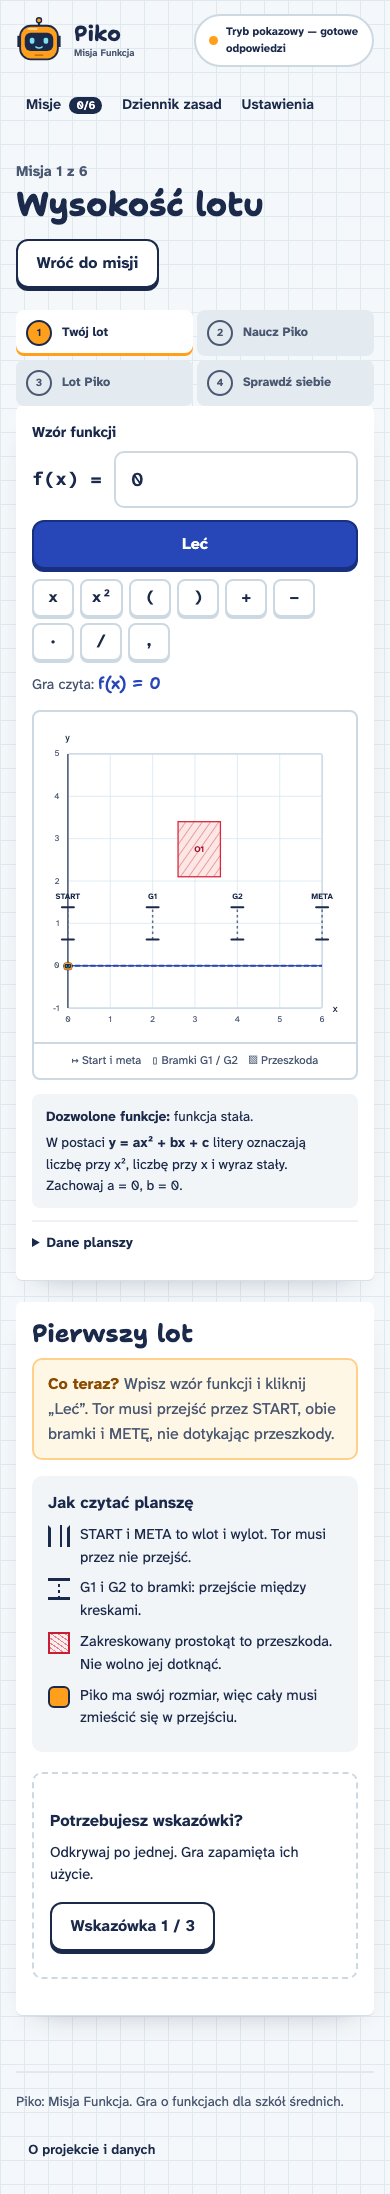
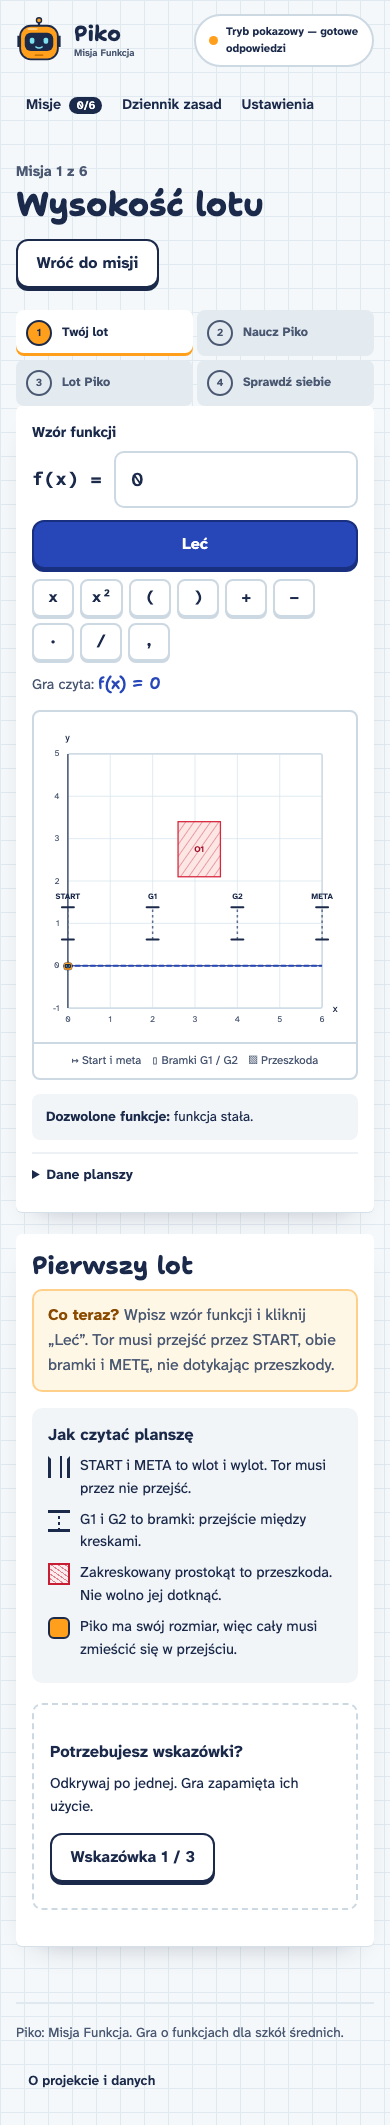
Make the lesson step simpler for a first-time player
- Piko's wrong idea flies automatically when the lesson starts
- the game computes gate values; no manual G1/G2 predictions
- predicting Piko's flight is optional
- plain constraint text ('Ustalone: liczba przy x² = 0,25')
- three-item checklist and updated guidance, tests and guide

diff --git a/apps/web/src/App.tsx b/apps/web/src/App.tsx
@@ -12,7 +12,7 @@ import {backupSave,canAskRobot,hasCompleted,loadState,numericEvidence,persistSta
 const formulaKeys:[string,string][]=[['x','x'],['x²','x^2'],['(','('],[')',')'],['+','+'],['−','-'],['·','*'],['/','/'],[',',',']];
 const modeText={demo:'Tryb pokazowy — gotowe odpowiedzi',live:'Prawdziwe AI — Claude',unavailable:'AI niedostępne — brak odpowiedzi'};
 const familyName={constant:'funkcja stała',linear:'funkcja liniowa',quadratic:'funkcja kwadratowa'};
-const coefficientName={c2:'a',c1:'b',c0:'c'};
+const coefficientWords={c2:'liczba przy x²',c1:'liczba przy x',c0:'liczba bez x'};
 const pointName=(id:string)=>id==='start'?'Start':id==='goal'?'Meta':id;
 function eventLabel(event:Event){
  if(event.code==='OUT_OF_BOUNDS')return 'wyjście poza granice planszy';
@@ -25,7 +25,7 @@ function FlightResult({attempt,robotStart}:{attempt:Attempt;robotStart?:{yMin:nu
  const {expression,result}=attempt;
  const missedStart=result.primaryCode==='START_MISS'?result.checkpoints.find(point=>point.id==='start'):undefined;
  return <section className={result.ok?'success':'error'} data-testid="engine-result" aria-label="Wynik lotu">
-  <h3>Wynik lotu</h3>
+  <h3>{attempt.source==='demo'&&attempt.sceneId.endsWith('-teach')?'Lot według pomysłu Piko':'Wynik lotu'}</h3>
   <p>Wzór <code>f(x) = {expression}</code></p>
   <strong>{result.ok?'✓':'×'} {result.messagePL}</strong>
   {result.firstPhysicalEvent&&<p>Co poszło nie tak: {eventLabel(result.firstPhysicalEvent)}, x ≈ {result.firstPhysicalEvent.x.toFixed(3)}.</p>}
@@ -195,19 +195,15 @@ export function App(){
  </>}
  {s.page==='game'&&<><div className="mission-heading"><div><p className="mission-number">Misja {m.order} z 6</p><h1 ref={heading} tabIndex={-1}>{m.title}</h1></div><button className="secondary" onClick={()=>go('missions')}>Wróć do misji</button></div><ol className="phase-list">{roles.map((step,i)=><li key={step} aria-current={role===step?'step':undefined} className={role===step?'active':roles.indexOf(role)>i?'done':''}><span>{roles.indexOf(role)>i?'✓':i+1}</span>{roleLabels[step]}</li>)}</ol>
  <div className="game-grid"><section className="flight sheet" aria-label={roleLabels[role]}>
- {role!=='robot_transfer'&&<form className="expression-form" onSubmit={e=>{e.preventDefault();dispatch({type:'CHECK'});}}>{role==='teach'&&<h3>1. Popraw wzór Piko i przewidź wysokość</h3>}<label htmlFor="expression">{role==='teach'?'Twój poprawiony wzór':'Wzór funkcji'}</label><div className="expression-row"><span>f(x) =</span><input ref={exprRef} id="expression" data-testid="expression" value={r.drafts[role]} maxLength={120} autoComplete="off" spellCheck={false} onChange={e=>dispatch({type:'EDIT',field:'expression',value:e.target.value})}/><button disabled={s.busy}>{role==='human_check'?'Sprawdź mój lot':role==='teach'?'Sprawdź naprawę':'Leć'}</button></div><div className="formula-keys" role="group" aria-label="Wstaw do wzoru">{formulaKeys.map(([label,text])=><button type="button" key={label} className="key" aria-label={`Wstaw ${label}`} onClick={()=>insertIntoFormula(text)}>{label}</button>)}</div>
+ {role!=='robot_transfer'&&<form className="expression-form" onSubmit={e=>{e.preventDefault();dispatch({type:'CHECK'});}}>{role==='teach'&&<h3>1. Popraw wzór Piko</h3>}<label htmlFor="expression">{role==='teach'?'Twój poprawiony wzór':'Wzór funkcji'}</label><div className="expression-row"><span>f(x) =</span><input ref={exprRef} id="expression" data-testid="expression" value={r.drafts[role]} maxLength={120} autoComplete="off" spellCheck={false} onChange={e=>dispatch({type:'EDIT',field:'expression',value:e.target.value})}/><button disabled={s.busy}>{role==='human_check'?'Sprawdź mój lot':role==='teach'?'Sprawdź naprawę':'Leć'}</button></div><div className="formula-keys" role="group" aria-label="Wstaw do wzoru">{formulaKeys.map(([label,text])=><button type="button" key={label} className="key" aria-label={`Wstaw ${label}`} onClick={()=>insertIntoFormula(text)}>{label}</button>)}</div>
  {r.drafts[role].trim()&&<p className="formula-preview">Gra czyta: <span>f(x) = {prettyFormula(r.drafts[role])}</span></p>}
- {role==='teach'&&<div className="predictions">{scene.gates.map((g,i)=><label key={g.id} htmlFor={`prediction${i}`}>{g.id} (x = {g.x}): przewiduję y =<input id={`prediction${i}`} inputMode="decimal" value={r.predictions[i]} onChange={e=>dispatch({type:'EDIT',field:i===0?'prediction0':'prediction1',value:e.target.value})}/></label>)}</div>}
  {role==='teach'&&r.repairChecked&&<p className={canRule||deriveRuleEvidence(m,r.drafts.teach,numericEvidence(s))?'notice ok':'notice'}>{r.numericFeedback}</p>}
  </form>}
  <Board scene={scene} expression={role==='robot_transfer'?(r.robotChecked?r.robot?.learner?.proposedExpression??'':''):r.drafts[role]} showPath={!blind&&(role!=='robot_transfer'||r.robotChecked)} result={role==='robot_transfer'?r.robotChecked?r.attempts.robot_transfer?.at(-1)?.result??null:null:currentResult} flightId={last?.id} reduced={reduced} hitbox={s.settings.hitbox}/>
  <div className="constraints">
   <strong>Dozwolone funkcje:</strong> {scene.allowedFamilies.map(f=>familyName[f]).join(', ')}.
-  {Object.keys(scene.coefficientLocks).length>0&&<p>
-   W postaci <strong>y = ax² + bx + c</strong> litery oznaczają liczbę przy x², liczbę przy x i wyraz stały.
-   Zachowaj {Object.entries(scene.coefficientLocks).map(([key,value])=>`${coefficientName[key as keyof typeof coefficientName]} = ${value}`).join(', ')}.
-  </p>}
-  {scene.vertexLock&&<p>Współrzędne wierzchołka: {Object.entries(scene.vertexLock).map(([k,v])=>`${k} = ${v}`).join(', ')}.</p>}
+  {Object.entries(scene.coefficientLocks).filter(([,value])=>value!==0).map(([key,value])=><p key={key}>Ustalone: {coefficientWords[key as keyof typeof coefficientWords]} = {String(value).replace('.',',')}.</p>)}
+  {scene.vertexLock&&<p>Ustalone: wierzchołek {Object.entries(scene.vertexLock).map(([k,v])=>`${k} = ${String(v).replace('.',',')}`).join(', ')}.</p>}
  </div>
  <div aria-live="polite" className="feedback">{s.error&&<p className="error" role="alert">! {s.error}</p>}{last&&!blind&&(role!=='robot_transfer'||r.robotChecked)&&<FlightResult attempt={last} robotStart={role==='robot_transfer'?scene.start:undefined}/>}{blind&&<p className="notice">Nowa plansza, teraz bez podpowiedzi. Tor zobaczysz po zatwierdzeniu wzoru. Błąd składni nie zużywa pierwszej próby.</p>}</div>
  <details className="board-data"><summary>Dane planszy</summary><p>Granice: x od {scene.domain.xMin} do {scene.domain.xMax}; y od {scene.domain.yMin} do {scene.domain.yMax}. Bok Piko: 0,24. Cały robot musi mieścić się w przejściu.</p><ul>{[{id:'Start',...scene.start},...scene.gates,{id:'Cel',...scene.goal}].map(g=><li key={g.id}>{g.id}: x={g.x}, dozwolone y od {g.yMin} do {g.yMax}</li>)}{scene.obstacles.map(o=><li key={o.id}>Przeszkoda {o.id}: x od {o.xMin} do {o.xMax}; y od {o.yMin} do {o.yMax}</li>)}</ul></details>
@@ -221,7 +217,7 @@ export function App(){
   <li><b className="lg-piko" aria-hidden="true"/>Piko ma swój rozmiar, więc cały musi zmieścić się w przejściu.</li>
  </ul></div>}
  {role==='practice'&&<><div className="hint-box"><h3>Potrzebujesz wskazówki?</h3><p>Odkrywaj po jednej. Gra zapamięta ich użycie.</p>{hints.missions.find(h=>h.missionId===m.id)?.hints.slice(0,r.hintCount).map(h=><div key={h.level}><strong>{h.level}. {h.titlePL}</strong><p>{h.textPL}</p></div>)}{r.hintCount<3&&<button className="secondary" onClick={()=>dispatch({type:'HINT'})}>Wskazówka {r.hintCount+1} / 3</button>}</div>{last?.result.ok&&<button onClick={()=>dispatch({type:'NEXT'})}>Teraz naucz Piko</button>}</>}
- {role==='teach'&&<><div className="piko-says"><Piko/><div className="bubble"><small>Pomysł Piko (przygotowany)</small><p>{m.scriptedRobotUtterance}</p><code>f(x) = {scene.initialExpression}</code><button className="secondary" onClick={()=>dispatch({type:'CHECK_SCRIPT'})}>Sprawdź pomysł Piko</button></div></div><h3>2. Wyjaśnij Piko zasadę</h3><label htmlFor="explanation">Co Piko powinien zmienić i dlaczego?</label><textarea id="explanation" value={r.explanation} maxLength={600} rows={3} onChange={e=>dispatch({type:'EDIT',field:'explanation',value:e.target.value})}/><p className="muted">Wystarczy jedno lub dwa zdania. {r.explanation.length}/600</p>{s.mode==='live'&&<p className="privacy">Twoje wyjaśnienie trafi do AI. Nie wpisuj danych osobowych.</p>}<button className="secondary" disabled={s.busy||!r.explanation.trim()} onClick={()=>void askPiko()}>Powiedz Piko</button>{conversation}{!s.busy&&r.lessonReply?.assessment&&r.lessonReply.assessment!=='sound'&&<p className="notice">Uzupełnij wyjaśnienie w polu powyżej, odpowiadając na pytanie Piko, i kliknij „Powiedz Piko” jeszcze raz.</p>}{!r.explanation.trim()&&<p className="muted">Najpierw wpisz własną próbę wyjaśnienia.</p>}{canRule&&<div className="rule-card note-card">
+ {role==='teach'&&<><div className="piko-says"><Piko/><div className="bubble"><small>Pomysł Piko (przygotowany)</small><p>{m.scriptedRobotUtterance}</p><code>f(x) = {scene.initialExpression}</code><p className="bubble-note">Na planszy widać, jak skończył się ten lot.</p></div></div><h3>2. Wyjaśnij Piko zasadę</h3><label htmlFor="explanation">Co Piko powinien zmienić i dlaczego?</label><textarea id="explanation" value={r.explanation} maxLength={600} rows={3} onChange={e=>dispatch({type:'EDIT',field:'explanation',value:e.target.value})}/><p className="muted">Wystarczy jedno lub dwa zdania. {r.explanation.length}/600</p>{s.mode==='live'&&<p className="privacy">Twoje wyjaśnienie trafi do AI. Nie wpisuj danych osobowych.</p>}<button className="secondary" disabled={s.busy||!r.explanation.trim()} onClick={()=>void askPiko()}>Powiedz Piko</button>{conversation}{!s.busy&&r.lessonReply?.assessment&&r.lessonReply.assessment!=='sound'&&<p className="notice">Uzupełnij wyjaśnienie w polu powyżej, odpowiadając na pytanie Piko, i kliknij „Powiedz Piko” jeszcze raz.</p>}{!r.explanation.trim()&&<p className="muted">Najpierw wpisz własną próbę wyjaśnienia.</p>}{canRule&&<div className="rule-card note-card">
   <h3>3. Zapisz notatkę dla Piko</h3>
   <dl className="lesson-text"><dt>Twoje wyjaśnienie</dt><dd>{r.explanation}</dd></dl>
   <PikoBelief belief={r.lessonReply?.belief??null}/>
@@ -248,9 +244,8 @@ export function App(){
   <h3>Propozycja Piko</h3>
   <code>f(x) = {r.robot.learner.proposedExpression}</code>
   {r.robot.learner.utterancePL&&<blockquote className="piko-reason"><small>{r.robot.mode==='live'?'Uzasadnienie Piko (prawdziwe AI)':'Uzasadnienie Piko (tryb pokazowy)'}</small><p>{r.robot.learner.utterancePL}</p></blockquote>}
-  <fieldset><legend>Jak przewidujesz?</legend>{['Przeleci','Nie przeleci','Jeszcze nie wiem'].map(p=><label key={p}><input type="radio" name="prediction" checked={r.prediction===p} onChange={()=>dispatch({type:'ROBOT_PREDICTION',value:p})}/>{p}</label>)}</fieldset>
-  {!r.robotChecked&&<button disabled={s.busy||!r.prediction} onClick={()=>dispatch({type:'ROBOT_CHECK'})}>Sprawdź lot Piko</button>}
-  {!r.prediction&&<p className="muted">Wybierz przewidywanie, by zobaczyć wynik.</p>}
+  <fieldset><legend>Jak myślisz, przeleci? (możesz pominąć)</legend>{['Przeleci','Nie przeleci','Jeszcze nie wiem'].map(p=><label key={p}><input type="radio" name="prediction" checked={r.prediction===p} onChange={()=>dispatch({type:'ROBOT_PREDICTION',value:p})}/>{p}</label>)}</fieldset>
+  {!r.robotChecked&&<button disabled={s.busy} onClick={()=>dispatch({type:'ROBOT_CHECK'})}>Sprawdź lot Piko</button>}
  </div>}
  {s.mode!=='unavailable'&&canAskRobot(s,r)&&(!r.robot||r.robotTurns===0)&&<button disabled={s.busy} onClick={()=>void askPiko()}>Piko, spróbuj sam</button>}
  {!s.busy&&r.robotChecked&&(r.attempts.robot_transfer?.at(-1)?.result.ok

diff --git a/apps/web/src/guidance.ts b/apps/web/src/guidance.ts
@@ -13,16 +13,14 @@ export function nextStep(s:GameState,r:Run):string{
     :'Lot się nie udał. Zobacz na planszy, gdzie tor wypadł, i popraw wzór.';
    return 'Udało się! Kliknij „Teraz naucz Piko”.';
   case 'teach':{
-   const sawIdea=(r.attempts.teach??[]).some(a=>a.source==='demo');
    const evidence=r.repairChecked&&deriveRuleEvidence(m,r.drafts.teach,numericEvidence(s));
    const repair=(r.attempts.teach??[]).filter(a=>a.source==='human').at(-1);
-   if(!sawIdea&&!r.repairChecked)return 'Piko ma błędny pomysł. Kliknij „Sprawdź pomysł Piko”, żeby zobaczyć, dlaczego nie działa.';
-   if(!r.repairChecked)return 'Popraw wzór Piko, wpisz, jaką wysokość przewidujesz w G1 i G2, i kliknij „Sprawdź naprawę”.';
+   if(!r.repairChecked)return 'Piko poleciał według swojego pomysłu i się rozbił (widać na planszy). Popraw jego wzór i kliknij „Sprawdź naprawę”.';
    if(repair&&!repair.result.ok)return 'Poprawiony wzór jeszcze nie prowadzi bezpiecznie. Popraw go i sprawdź ponownie.';
-   if(!evidence)return 'Tor jest dobry, ale prognoza się nie zgadza. Podstaw x bramki do wzoru i policz y jeszcze raz.';
+   if(!evidence)return 'Ten wzór przelatuje, ale nie pokazuje zasady tej misji. Zmień tylko to, co pomylił Piko.';
    if(s.busy)return 'Piko czyta Twoje wyjaśnienie…';
    if(!r.lessonReply)return r.explanation.trim()
-    ?'Kliknij „Powiedz Piko”, żeby sprawdzić, jak zrozumie Twoje wyjaśnienie. Możesz też od razu zapisać notatkę.'
+    ?'Kliknij „Powiedz Piko”, żeby sprawdzić, jak zrozumie Twoje wyjaśnienie.'
     :'Wyjaśnij Piko własnymi słowami, co ma zmienić i dlaczego. Potem kliknij „Powiedz Piko”.';
    if(r.lessonReply.assessment&&r.lessonReply.assessment!=='sound')return 'Piko czegoś jeszcze nie rozumie. Uzupełnij wyjaśnienie (odpowiedz na jego pytanie) i kliknij „Powiedz Piko” ponownie.';
    return 'Przeczytaj, co Piko zapamięta. Na nowej trasie poleci dokładnie według tego zdania. Jeśli się zgadza, zapisz notatkę.';
@@ -30,7 +28,7 @@ export function nextStep(s:GameState,r:Run):string{
   case 'robot_transfer':
    if(s.busy)return 'Piko analizuje nową trasę…';
    if(!r.robot&&!r.unavailable)return 'Kliknij „Piko, spróbuj sam”. Piko zna tylko Twoją notatkę i poleci według niej na trasie, której nie widział.';
-   if(r.robot&&!r.robotChecked)return 'Przeczytaj wzór i uzasadnienie Piko. Zaznacz, czy Twoim zdaniem przeleci, i kliknij „Sprawdź lot Piko”.';
+   if(r.robot&&!r.robotChecked)return 'Przeczytaj wzór i uzasadnienie Piko, zgadnij, czy przeleci, i kliknij „Sprawdź lot Piko”.';
    if(r.robotChecked&&last?.result.ok)return 'Piko przeleciał dzięki Twojej lekcji. Teraz Twoja kolej.';
    if(r.robotChecked)return 'Piko rozbił się, bo poleciał według Twojej lekcji. Znajdź w jego uzasadnieniu, co go zmyliło, i kliknij „Popraw lekcję dla Piko”.';
    return 'Możesz przejść do własnej próby.';
@@ -46,9 +44,8 @@ export function teachChecklist(s:GameState,r:Run){
  const m=missionById(s.missionId);
  const evidence=Boolean(r.repairChecked&&deriveRuleEvidence(m,r.drafts.teach,numericEvidence(s)));
  return [
-  {label:'Zobacz błędny pomysł Piko',done:(r.attempts.teach??[]).some(a=>a.source==='demo')||evidence},
-  {label:'Popraw wzór i przewidź wysokość w G1 i G2',done:evidence},
-  {label:'Wyjaśnij Piko zasadę',done:Boolean(r.lessonReply)},
+  {label:'Popraw wzór Piko',done:evidence},
+  {label:'Wyjaśnij Piko, co zmienić i dlaczego',done:Boolean(r.lessonReply)},
   {label:'Zapisz notatkę dla Piko',done:false}
  ];
 }

diff --git a/apps/web/src/state.ts b/apps/web/src/state.ts
@@ -71,13 +71,19 @@ export function reducer(state:GameState,action:Action):GameState {
   case 'CHECK':{
    if(r.role==='robot_transfer'||s.busy)return state;
    invalidate();const a=addAttempt(r.role,r.drafts[r.role],'human');
-   if(r.role==='teach'&&a){r.repairChecked=true;const e=deriveRuleEvidence(m,r.drafts.teach,numericEvidence(s));r.numericFeedback=e?'Tor i obie prognozy są poprawne.':numericEvidence(s).map(v=>{const p=a.result.checkpoints.find(p=>p.id===v.checkpointId);return p?`${v.checkpointId}: Twój wzór daje y=${p.y}.`:'';}).join(' ');}
+   // Wartości w bramkach liczy gra; nie wymagamy od gracza ręcznych prognoz.
+   if(r.role==='teach'&&a)r.predictions=(['G1','G2'] as const).map(id=>{const p=a.result.checkpoints.find(c=>c.id===id);return p?String(Number(p.y.toFixed(6))):'';});
+   if(r.role==='teach'&&a){r.repairChecked=true;const e=deriveRuleEvidence(m,r.drafts.teach,numericEvidence(s));r.numericFeedback=e?'Naprawa działa. Teraz wyjaśnij Piko, co miał zmienić i dlaczego.':a.result.ok?'Ten wzór przelatuje, ale nie pokazuje zasady tej misji. Zmień tylko to, co pomylił Piko.':'Ten wzór jeszcze nie prowadzi bezpiecznie. Popraw go i sprawdź ponownie.';}
    break;
   }
   case 'CHECK_SCRIPT':invalidate();addAttempt('teach',m.scenes.teach.initialExpression,'demo');break;
   case 'NEXT':{
    const last=r.attempts[r.role]?.at(-1);
-   if(r.role==='practice'&&last?.result.ok){invalidate();r.role='teach';}
+   if(r.role==='practice'&&last?.result.ok){
+    invalidate();r.role='teach';
+    // Piko od razu pokazuje swój błędny lot, żeby gracz wiedział, co poprawić.
+    if(!(r.attempts.teach??[]).some(a=>a.source==='demo'))addAttempt('teach',m.scenes.teach.initialExpression,'demo');
+   }
    else if(r.role==='robot_transfer'&&!s.busy&&(r.robotChecked||r.unavailable||r.robotFailures>0))enterHumanCheck(!r.robotChecked);
    else if(r.role==='human_check'&&r.completed){invalidate();s.page='summary';}
    break;
@@ -97,7 +103,7 @@ export function reducer(state:GameState,action:Action):GameState {
   case 'HINT':if(r.role==='practice')r.hintCount=Math.min(3,r.hintCount+1);break;
   case 'ROBOT_PREDICTION':r.prediction=action.value;break;
   case 'ROBOT_CHECK':
-   if(r.role!=='robot_transfer'||s.busy||r.robotChecked||!r.prediction||!r.robot?.learner?.proposedExpression)return state;
+   if(r.role!=='robot_transfer'||s.busy||r.robotChecked||!r.robot?.learner?.proposedExpression)return state;
    invalidate();addAttempt('robot_transfer',r.robot.learner.proposedExpression,r.robot.mode==='live'?'live':'demo');r.robotChecked=true;break;
   case 'SKIP_ROBOT':
    if(r.role!=='robot_transfer')return state;

diff --git a/tests/e2e/campaign.spec.ts b/tests/e2e/campaign.spec.ts
@@ -11,7 +11,6 @@ async function practice(page:Page,mission:typeof data.missions[number]){
 async function teach(page:Page,mission:typeof data.missions[number]){
  const scene=mission.scenes.teach,w=scene.witness;
  await page.getByLabel('Twój poprawiony wzór').fill(w.expression);
- for(const [i,g] of scene.gates.entries())await page.locator(`#prediction${i}`).fill(String((w.c2*g.x+w.c1)*g.x+w.c0));
  await page.getByLabel('Co Piko powinien zmienić i dlaczego?').fill(mission.ruleText);
  await page.getByRole('button',{name:'Sprawdź naprawę'}).click();
  await expect(page.getByRole('heading',{name:'3. Zapisz notatkę dla Piko'})).toBeVisible();
@@ -86,9 +85,10 @@ test('keyboard path, offline demo and 200% text keep primary actions available',
  await context.setOffline(true);
  await page.getByLabel('Wzór funkcji',{exact:true}).focus();await page.keyboard.press('ControlOrMeta+A');await page.keyboard.type('1');await page.keyboard.press('Enter');
  await page.getByRole('button',{name:'Teraz naucz Piko'}).focus();await page.keyboard.press('Enter');
- await page.getByLabel('Twój poprawiony wzór').fill('2');await page.locator('#prediction0').fill('2');await page.locator('#prediction1').fill('2');
+ await page.getByLabel('Twój poprawiony wzór').fill('2');
  await page.getByLabel('Co Piko powinien zmienić i dlaczego?').fill('Stała daje wysokość każdego punktu.');await page.keyboard.press('Enter');
- await expect(page.getByTestId('engine-result')).toHaveCount(0);
+ // Enter w wyjaśnieniu nie wysyła formularza: widać nadal tylko lot według pomysłu Piko.
+ await expect(page.getByTestId('engine-result')).not.toContainText('f(x) = 2');
  for(const name of ['Sprawdź naprawę','Powiedz Piko','Zapisz notatkę dla Piko','Piko, spróbuj sam']){await page.getByRole('button',{name}).focus();await page.keyboard.press('Enter');}
  await page.getByLabel('Przeleci',{exact:true}).focus();await page.keyboard.press('Space');
  for(const name of ['Sprawdź lot Piko','Teraz mój samodzielny lot']){await page.getByRole('button',{name}).focus();await page.keyboard.press('Enter');}

diff --git a/tests/guidance.test.ts b/tests/guidance.test.ts
@@ -16,15 +16,16 @@ describe('nextStep prowadzi gracza przez misję 1',()=>{
   s=edit(s,'expression',m.scenes.practice.witness.expression);s=reducer(s,{type:'CHECK'});
   expect(nextStep(s,run(s))).toMatch(/Teraz naucz Piko/);
   s=reducer(s,{type:'NEXT'});
-  expect(nextStep(s,run(s))).toMatch(/Sprawdź pomysł Piko/);
-  s=reducer(s,{type:'CHECK_SCRIPT'});
+  // Błędny lot Piko pokazuje się od razu po wejściu w lekcję.
+  expect(run(s).attempts.teach?.[0]?.source).toBe('demo');
   expect(nextStep(s,run(s))).toMatch(/Sprawdź naprawę/);
-  const w=m.scenes.teach.witness,[g1,g2]=m.scenes.teach.gates;
-  s=edit(s,'expression',w.expression);s=edit(s,'prediction0',String(w.c0+w.c1*g1.x));s=edit(s,'prediction1','99');s=reducer(s,{type:'CHECK'});
-  expect(nextStep(s,run(s))).toMatch(/prognoza się nie zgadza/);
-  s=edit(s,'prediction1',String(w.c0+w.c1*g2.x));s=reducer(s,{type:'CHECK'});
+  s=edit(s,'expression','2*x');s=reducer(s,{type:'CHECK'});
+  expect(nextStep(s,run(s))).toMatch(/jeszcze nie prowadzi|nie pokazuje zasady/);
+  s=edit(s,'expression',m.scenes.teach.witness.expression);s=reducer(s,{type:'CHECK'});
+  // Prognozy w bramkach liczy gra.
+  expect(run(s).predictions.every(p=>p!=='')).toBe(true);
   expect(nextStep(s,run(s))).toMatch(/Wyjaśnij Piko/);
-  expect(teachChecklist(s,run(s)).map(i=>i.done)).toEqual([true,true,false,false]);
+  expect(teachChecklist(s,run(s)).map(i=>i.done)).toEqual([true,false,false]);
  });
  it('samodzielna próba i ukończenie',()=>{
   const s=initialState();const r=run(s);r.role='human_check';

diff --git a/tools/record-film.ts b/tools/record-film.ts
@@ -24,7 +24,6 @@ async function quickMission(p:Page,m:typeof data.missions[number]){
  await p.getByRole('button',{name:'Teraz naucz Piko'}).click();
  const t=m.scenes.teach,w=t.witness;
  await p.getByLabel('Twój poprawiony wzór').fill(w.expression);
- for(const [i,g] of t.gates.entries())await p.locator(`#prediction${i}`).fill(String((w.c2*g.x+w.c1)*g.x+w.c0));
  await p.getByLabel('Co Piko powinien zmienić i dlaczego?').fill(m.ruleText);
  await p.getByRole('button',{name:'Sprawdź naprawę'}).click();
  await p.getByRole('button',{name:'Zapisz notatkę dla Piko'}).click();
@@ -88,12 +87,11 @@ await p.getByRole('button',{name:'Teraz naucz Piko'}).click();await pause(800);
 
 // Krok 2: nauczanie.
 mark('teach-idea');
-const idea=p.getByRole('button',{name:'Sprawdź pomysł Piko'});await show(idea);await idea.click();await pause(1200);
+await pause(1200);
 await show(p.getByTestId('engine-result'));await pause(2500);
 mark('teach-fix');
 const t=m.scenes.teach,w=t.witness;
 await typeInto(p.getByLabel('Twój poprawiony wzór'),w.expression);
-for(const [i,g] of t.gates.entries())await typeInto(p.locator(`#prediction${i}`),String((w.c2*g.x+w.c1)*g.x+w.c0).replace('.',','));
 await p.getByRole('button',{name:'Sprawdź naprawę'}).click();await pause(1500);
 await show(p.getByTestId('engine-result'));await pause(2000);
 

diff --git a/tests/e2e/lesson.spec.ts b/tests/e2e/lesson.spec.ts
@@ -81,7 +81,6 @@ for(const scenario of [
   await page.getByRole('button',{name:'Wróć do gry'}).click();
   const teach=mission.scenes.teach,w=teach.witness;
   await page.getByLabel('Twój poprawiony wzór').fill(w.expression);
-  for(const [i,g] of teach.gates.entries())await page.locator(`#prediction${i}`).fill(String((w.c2*g.x+w.c1)*g.x+w.c0));
   await page.getByLabel('Co Piko powinien zmienić i dlaczego?').fill(explanation);
   await page.getByRole('button',{name:'Sprawdź naprawę'}).click();
   await page.getByRole('button',{name:'Powiedz Piko'}).click();

diff --git a/tests/live/m04-generalization.ts b/tests/live/m04-generalization.ts
@@ -8,7 +8,6 @@ import {buildM04LessonCases} from './cases';
 export const seed=20261110;
 const original=missionById('M04').scenes.robot_transfer;
 const shiftedExpression=(vertex:number)=>`0.25(x-(${vertex}))^2`;
-const rulePL='W y=a(x-p)^2+q współrzędna x wierzchołka to p. W nawiasie (x+b) punkt zerowania to x=-b, więc znak stałej dodanej do x wyznacza kierunek przesunięcia.';
 export const historicalProposal='0.25*(x-2)^2';
 
 function translated(delta:number){

diff --git a/apps/web/src/style.css b/apps/web/src/style.css
@@ -348,3 +348,4 @@ footer { display: flex; justify-content: space-between; align-items: center; gap
 .notice p { margin: 0 0 10px; }
 .notice p:last-child { margin-bottom: 0; }
 .notice button { margin: 0; }
+.bubble-note { margin-top: 6px !important; font-family: var(--text); font-size: .82em; color: var(--ink-soft); }

diff --git a/docs/12-instrukcja-uzytkownika.md b/docs/12-instrukcja-uzytkownika.md
@@ -21,8 +21,8 @@ Oś x biegnie w prawo, oś y w górę. START i META to wejście i wyjście, G1 i
 W prawym panelu ramka „Co teraz?” zawsze mówi, co zrobić w następnej kolejności. W kroku Naucz Piko lista zadań pokazuje, co już jest zrobione.
 
 1. Twój lot. Wpisz wzór i kliknij Leć (albo naciśnij Enter). Jeśli utkniesz, odsłaniaj po kolei trzy wskazówki. Po udanym locie kliknij Teraz naucz Piko.
-2. Naucz Piko. Piko ma błędny pomysł. Kliknij Sprawdź pomysł Piko, żeby zobaczyć, gdzie się myli. Popraw wzór, wpisz, jaką wysokość przewidujesz w bramkach G1 i G2, i kliknij Sprawdź naprawę. Potem napisz jednym lub dwoma zdaniami, co Piko powinien zmienić i dlaczego, i kliknij Powiedz Piko. Piko powie, jak to zrozumiał, i może zadać pytanie. W notatce zobaczysz zdanie „Piko zapamięta…”: tak Piko zrozumiał Twoją lekcję i według tego poleci. Jeśli to zdanie jest błędne, popraw wyjaśnienie i zapytaj Piko jeszcze raz. Na koniec kliknij Zapisz notatkę dla Piko.
-3. Lot Piko. Piko dostaje nową trasę i zna tylko to, co było w Twoich lekcjach. Gotowej zasady z gry nie dostaje. Kliknij Piko, spróbuj sam. Przeczytaj jego wzór i uzasadnienie, zaznacz, czy Twoim zdaniem przeleci, i kliknij Sprawdź lot Piko. Gra przelicza jego lot dokładnie. Rozwiń Dlaczego?, żeby zobaczyć wysokość toru w każdym punkcie. Jeśli Piko się rozbił, przeczytaj, które zdanie lekcji zastosował, kliknij Popraw lekcję dla Piko i wyjaśnij to lepiej. Piko poleci jeszcze raz. Możesz też pominąć jego lot.
+2. Naucz Piko. Piko od razu leci według swojego błędnego pomysłu i się rozbija: widać to na planszy. Popraw jego wzór i kliknij Sprawdź naprawę (wartości w bramkach gra policzy sama). Potem napisz jednym lub dwoma zdaniami, co Piko powinien zmienić i dlaczego, i kliknij Powiedz Piko. Piko powie, jak to zrozumiał, i może zadać pytanie. W notatce zobaczysz zdanie „Piko zapamięta…”: według niego Piko poleci. Jeśli jest błędne, popraw wyjaśnienie i zapytaj Piko jeszcze raz. Na koniec kliknij Zapisz notatkę dla Piko.
+3. Lot Piko. Piko dostaje nową trasę i zna tylko to, co było w Twoich lekcjach. Gotowej zasady z gry nie dostaje. Kliknij Piko, spróbuj sam. Przeczytaj jego wzór i uzasadnienie. Możesz zgadnąć, czy przeleci, i kliknij Sprawdź lot Piko. Gra przelicza jego lot dokładnie. Rozwiń Dlaczego?, żeby zobaczyć wysokość toru w każdym punkcie. Jeśli Piko się rozbił, przeczytaj, które zdanie lekcji zastosował, kliknij Popraw lekcję dla Piko i wyjaśnij to lepiej. Piko poleci jeszcze raz. Możesz też pominąć jego lot.
 4. Sprawdź siebie. Nowa plansza, tym razem bez podglądu toru, wskazówek i pomocy Piko. Wpisz wzór i kliknij Sprawdź mój lot. Liczy się pierwsza próba, ale po porażce możesz poprawiać wzór aż do skutku. Literówka (wzór, którego gra nie rozumie) nie zużywa próby.
 
 Po misji zobaczysz podsumowanie: zapisaną zasadę, wynik Piko i swoją pierwszą próbę. Kolejna misja odblokowuje się po ukończeniu poprzedniej. Dziennik zasad pokazuje wszystkie zasady przekazane Piko.
